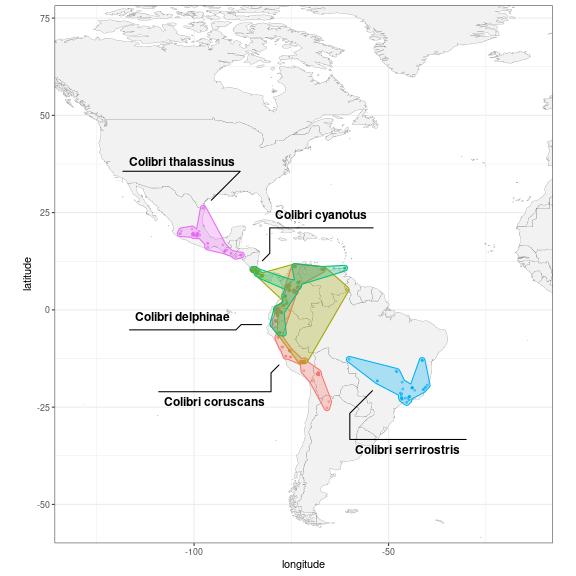
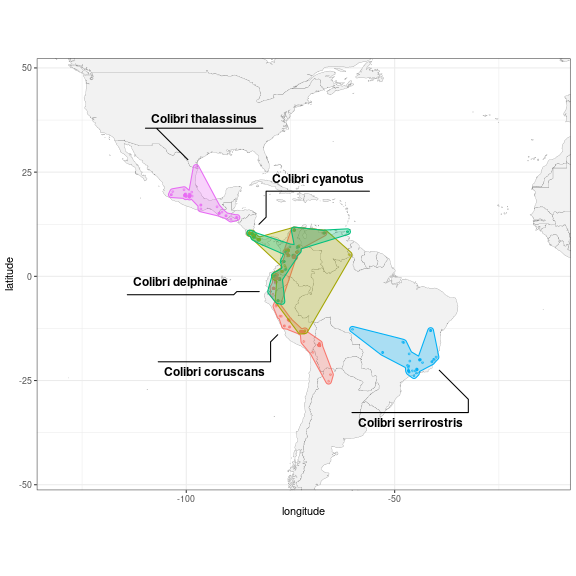
fix visualisation area for vignette

diff --git a/NEWS.md b/NEWS.md
@@ -3,6 +3,7 @@
 ## New features
 
 * New `annotation` argument in `get_inat_obs()` to filter by annotation, e.g. by life stage, sex or phenology. See the [available annotations](https://forum.inaturalist.org/t/how-to-use-inaturalists-search-urls-wiki-part-2-of-2/18792#heading--annotations). (#53)
+* New vignette demonstrating processing and visualising data for species distribution: `vignette("species-distribution")`
 
 ## Others
 
